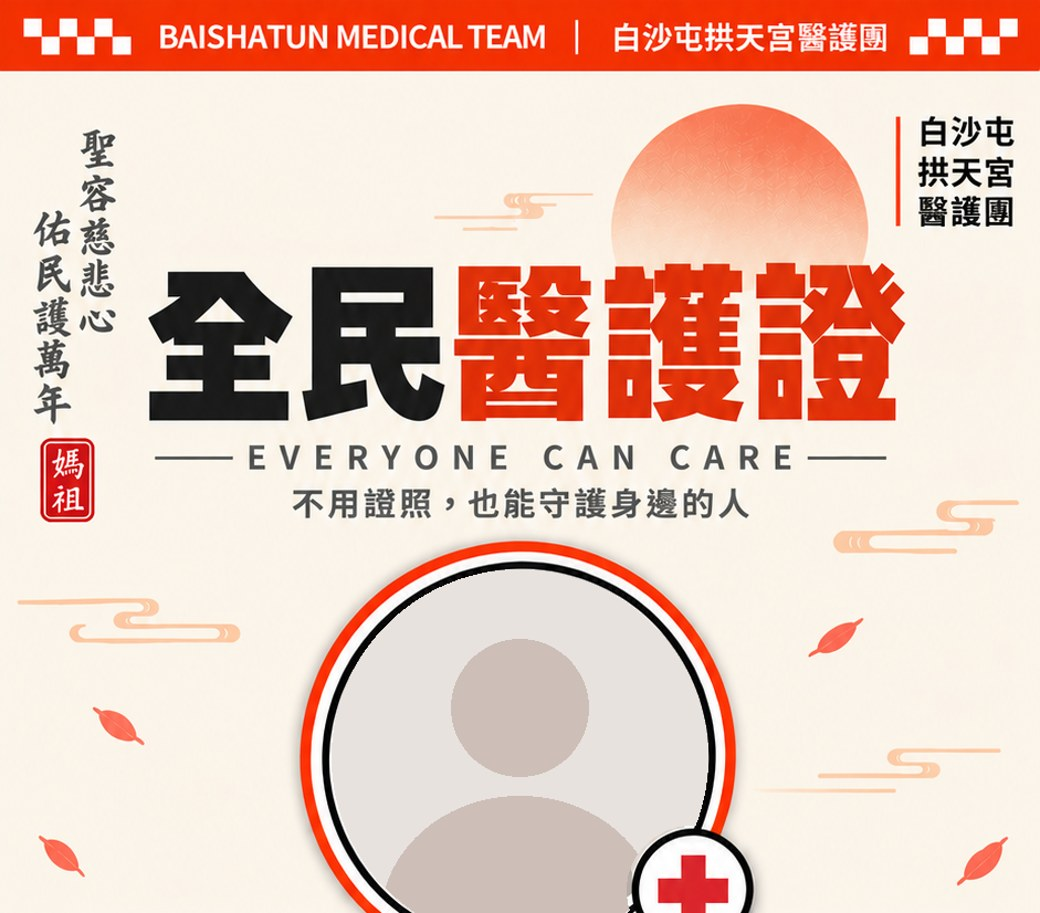
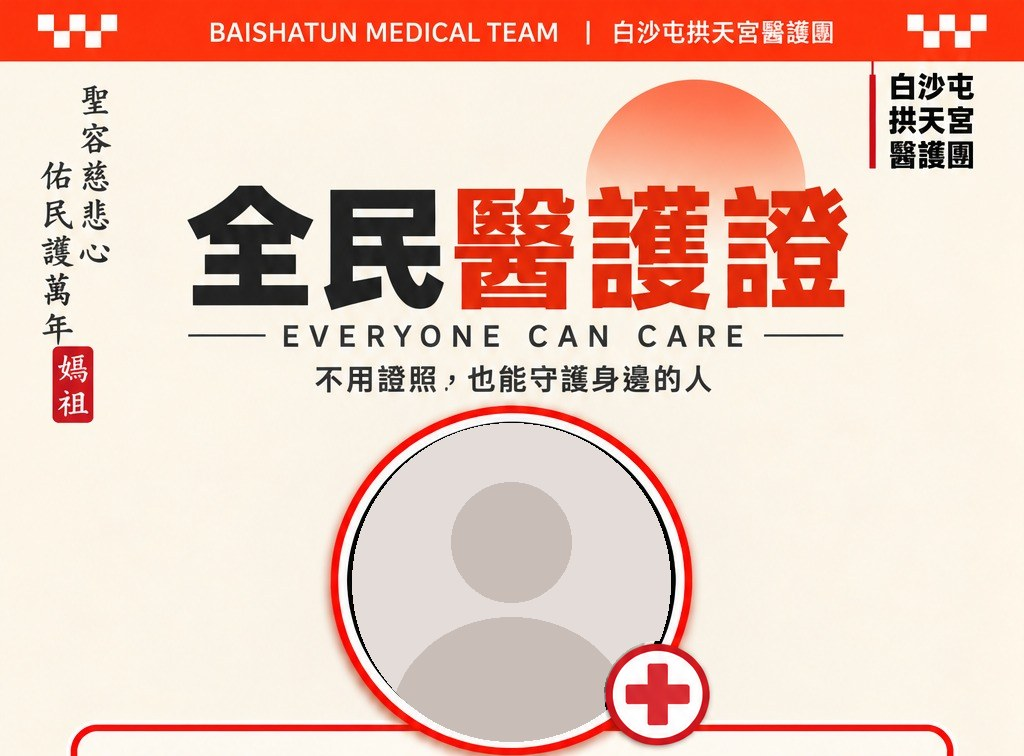
全民醫護證獨立頁 /guardian/：先填資料再產生、LINE 大頭貼預設、當天日期、守護流水號
Claude-Session: https://claude.ai/code/session_01UgnuMUR9BFixKJirFzAXJh

diff --git a/guardian/index.html b/guardian/index.html
@@ -1,0 +1,214 @@
+<!doctype html>
+<html lang="zh-Hant">
+<head>
+<meta charset="utf-8">
+<meta name="viewport" content="width=device-width,initial-scale=1,viewport-fit=cover">
+<title>全民醫護證｜白沙屯拱天宮醫護團</title>
+<meta property="og:title" content="全民醫護證｜白沙屯拱天宮醫護團">
+<meta property="og:description" content="不用證照，也能守護身邊的人。領一張屬於你的全民醫護證！">
+<meta property="og:image" content="https://tsushin-buishatun.pages.dev/richmenu/guardian-promo.jpg">
+<script charset="utf-8" src="https://static.line-scdn.net/liff/edge/2/sdk.js"></script>
+<style>
+  :root{--red:#D7262B;--ink:#1F1A18;--sub:#7B6F6A;--bg:#FBF5EC;--line:#EADFD5}
+  *{box-sizing:border-box}
+  html,body{margin:0;background:var(--bg);color:var(--ink);font-family:"PingFang TC","Noto Sans TC","Noto Sans CJK TC","Microsoft JhengHei",sans-serif;-webkit-text-size-adjust:100%}
+  .wrap{max-width:460px;margin:0 auto;padding:16px 16px 40px}
+  .hidden{display:none!important}
+  .hero{border-radius:16px;overflow:hidden;box-shadow:0 4px 18px rgba(0,0,0,.08);background:#fff}
+  .hero img{display:block;width:100%}
+  h2{font-size:19px;margin:20px 0 6px}
+  .hint{font-size:13px;color:var(--sub);line-height:1.6;margin:0 0 10px}
+  .lbl{font-size:14px;font-weight:800;margin:16px 0 8px}
+  input.txt{width:100%;font:inherit;font-size:18px;padding:12px 14px;border:2px solid var(--line);border-radius:12px;background:#fff;outline:none}
+  input.txt:focus{border-color:var(--red)}
+  .chips{display:flex;flex-wrap:wrap;gap:8px}
+  .chips button,.grid2 button{font:inherit;font-size:15px;font-weight:800;border:2px solid var(--line);background:#fff;color:#6b625e;border-radius:999px;padding:8px 14px;cursor:pointer}
+  .chips button.on{background:var(--red);border-color:var(--red);color:#fff}
+  .grid2{display:grid;grid-template-columns:1fr 1fr;gap:8px}
+  .grid2 button{border-radius:12px;padding:12px 6px}
+  .grid2 button.on{background:linear-gradient(#E0342F,#C9221F);border-color:#A51A18;color:#fff}
+  .btn{display:block;width:100%;font:inherit;font-size:17px;font-weight:900;border:0;border-radius:14px;padding:14px;cursor:pointer;text-align:center;margin-top:10px;text-decoration:none}
+  .btn.main{background:linear-gradient(90deg,#E0342F,#F0763A);color:#fff;box-shadow:0 6px 16px rgba(224,52,47,.3)}
+  .btn.line{background:#06C755;color:#fff}
+  .btn.ghost{background:#EFE8E2;color:#4a403c}
+  .row2{display:grid;grid-template-columns:1fr 1fr;gap:10px}
+  .row2 .btn{margin-top:0}
+  canvas{width:100%;display:block;border-radius:14px;box-shadow:0 6px 22px rgba(0,0,0,.16);touch-action:none;background:#FBF4EA}
+  .zoom{display:flex;align-items:center;gap:10px;font-size:13px;color:var(--sub);margin:12px 2px 2px}
+  .zoom input{flex:1}
+  .note{font-size:12px;color:var(--sub);text-align:center;line-height:1.7;margin-top:14px}
+  .spin{width:34px;height:34px;border:4px solid #f0d9d4;border-top-color:var(--red);border-radius:50%;animation:sp 1s linear infinite;margin:80px auto 14px}
+  @keyframes sp{to{transform:rotate(360deg)}}
+  #toast{position:fixed;left:50%;bottom:28px;transform:translateX(-50%);background:rgba(20,20,20,.88);color:#fff;padding:10px 16px;border-radius:12px;font-size:14px;opacity:0;transition:.25s;pointer-events:none;z-index:99;max-width:88vw;text-align:center}
+  #toast.show{opacity:1}
+  .ov{position:fixed;inset:0;z-index:90;background:rgba(0,0,0,.8);display:flex;flex-direction:column;align-items:center;justify-content:center;padding:16px;gap:12px}
+  .ov img{max-width:100%;max-height:74vh;border-radius:12px}
+  .ov .t{color:#fff;font-weight:800;font-size:15px;text-align:center}
+  .ov .row2{width:100%;max-width:360px}
+</style>
+</head>
+<body>
+<div class="wrap">
+  <div id="v-loading"><div class="spin"></div><p class="hint" style="text-align:center">讀取中…</p></div>
+
+  <!-- 第 1 步：填資料 -->
+  <div id="v-form" class="hidden">
+    <div class="hero"><img src="../richmenu/guardian-promo.jpg?v=2" alt="全民醫護證"></div>
+    <h2>領取你的全民醫護證</h2>
+    <p class="hint">不用證照，只要一顆願意幫忙的心。填好下面三項，就能拿到屬於你的守護證。</p>
+    <div class="lbl">① 姓名</div>
+    <input class="txt" id="f-name" maxlength="8" placeholder="你的名字" autocomplete="off">
+    <div class="lbl">② 身分</div>
+    <div class="chips" id="f-pos"></div>
+    <div class="lbl">③ 我會的守護技能 <span style="font-weight:500;color:var(--sub);font-size:12px">（可複選，不會也沒關係）</span></div>
+    <div class="grid2" id="f-skills"></div>
+    <button class="btn main" id="f-next" style="margin-top:22px">產生我的醫護證 →</button>
+  </div>
+
+  <!-- 第 2 步：醫護證 -->
+  <div id="v-card" class="hidden">
+    <canvas id="cv" width="1080" height="1620"></canvas>
+    <div class="zoom" id="zoomrow">🔍<input type="range" id="zoom" min="1" max="3" step="0.01" value="1">拖曳照片可移動</div>
+    <div class="row2" style="margin-top:12px">
+      <label class="btn ghost" style="margin:0">📷 換照片<input type="file" id="file" accept="image/*" style="display:none"></label>
+      <button class="btn ghost" id="edit">✏ 修改資料</button>
+    </div>
+    <button class="btn main" id="save">⬇ 存成圖片</button>
+    <button class="btn line" id="invite">➦ 邀請親友一起領</button>
+    <div class="note">🔒 照片只在你的手機上合成，不會上傳<br>白沙屯拱天宮醫護團 ・ 聖容慈悲心 佑民護萬年</div>
+  </div>
+</div>
+<div id="toast"></div>
+
+<script>
+(function () {
+  const LIFF_ID = '';   // ← 新建的「全民醫護證」LIFF ID（建好後填入）
+  const AUTH_URL = 'https://bst-auth.eurekateamstar.workers.dev';
+  const POS = ['全民守護員', '志工', '護理師', '醫師', 'EMTP', 'EMT2', 'EMT1'];
+  const SKILLS = ['CPR＋AED', '中暑處理', '止血包紮', '陪伴與求救'];
+  const FONT = '"PingFang TC","Noto Sans TC","Noto Sans CJK TC","Microsoft JhengHei",sans-serif';
+  const W = 1024, H = 1536;                       // 模板原始尺寸
+  const PH = { x: 511, y: 582, r: 159 };          // 大頭照圓框
+  const $ = id => document.getElementById(id);
+  const st = { name: '', pos: '全民守護員', skills: [true, true, false, true], no: 0, date: '', photo: null, zoom: 1, ox: 0, oy: 0, tpl: null, badge: null, profile: null };
+  const KEY = 'bst_guardian_v1';
+  try { Object.assign(st, JSON.parse(localStorage.getItem(KEY) || '{}')); } catch (e) {}
+  const remember = () => { try { localStorage.setItem(KEY, JSON.stringify({ name: st.name, pos: st.pos, skills: st.skills })); } catch (e) {} };
+  function toast(m, ms) { const t = $('toast'); t.textContent = m; t.classList.add('show'); clearTimeout(toast._t); toast._t = setTimeout(() => t.classList.remove('show'), ms || 2200); }
+  function view(id) { ['v-loading', 'v-form', 'v-card'].forEach(v => $(v).classList.toggle('hidden', v !== id)); window.scrollTo(0, 0); }
+  const load = (src, cors) => new Promise((res, rej) => { const i = new Image(); if (cors) i.crossOrigin = 'anonymous'; i.onload = () => res(i); i.onerror = rej; i.src = src; });
+  const today = () => { const d = new Date(); return `${d.getFullYear()}.${String(d.getMonth() + 1).padStart(2, '0')}.${String(d.getDate()).padStart(2, '0')}`; };
+  const hasLiff = () => !!(LIFF_ID && window.liff);
+
+  // ---------- 表單 ----------
+  function drawForm() {
+    $('f-name').value = st.name || '';
+    $('f-pos').innerHTML = POS.map(p => `<button type="button" data-p="${p}" class="${st.pos === p ? 'on' : ''}">${p}</button>`).join('');
+    $('f-skills').innerHTML = SKILLS.map((s, i) => `<button type="button" data-s="${i}" class="${st.skills[i] ? 'on' : ''}">${st.skills[i] ? '✓ ' : ''}${s}</button>`).join('');
+    document.querySelectorAll('[data-p]').forEach(b => b.onclick = () => { st.pos = b.dataset.p; st.name = $('f-name').value.trim(); drawForm(); });
+    document.querySelectorAll('[data-s]').forEach(b => b.onclick = () => { st.skills[+b.dataset.s] = !st.skills[+b.dataset.s]; st.name = $('f-name').value.trim(); drawForm(); });
+  }
+  $('f-next').onclick = () => {
+    st.name = $('f-name').value.trim();
+    if (!st.name) { $('f-name').focus(); return toast('請先填寫姓名'); }
+    remember(); view('v-card'); draw();
+  };
+  $('edit').onclick = () => { drawForm(); view('v-form'); };
+
+  // ---------- 畫醫護證 ----------
+  function rr(c, x, y, w, h, r) { c.beginPath(); c.moveTo(x + r, y); c.arcTo(x + w, y, x + w, y + h, r); c.arcTo(x + w, y + h, x, y + h, r); c.arcTo(x, y + h, x, y, r); c.arcTo(x, y, x + w, y, r); c.closePath(); }
+  function fit(c, text, weight, size, maxW, min) { let f = size; c.font = `${weight} ${f}px ${FONT}`; while (c.measureText(text).width > maxW && f > min) { f -= 1; c.font = `${weight} ${f}px ${FONT}`; } return f; }
+  function draw() {
+    const cv = $('cv'), c = cv.getContext('2d'), k = cv.width / W;
+    c.setTransform(k, 0, 0, k, 0, 0); c.fillStyle = '#FBF4EA'; c.fillRect(0, 0, W, H);
+    if (st.tpl) c.drawImage(st.tpl, 0, 0, W, H);
+    // 大頭照
+    c.save(); c.beginPath(); c.arc(PH.x, PH.y, PH.r, 0, Math.PI * 2); c.clip();
+    if (st.photo) { const p = st.photo, s = Math.max(2 * PH.r / p.naturalWidth, 2 * PH.r / p.naturalHeight) * st.zoom, w = p.naturalWidth * s, h = p.naturalHeight * s;
+      c.drawImage(p, PH.x - w / 2 + st.ox, PH.y - h / 2 + st.oy, w, h); }
+    else { c.fillStyle = '#E3DCD8'; c.fillRect(PH.x - PH.r, PH.y - PH.r, PH.r * 2, PH.r * 2); c.fillStyle = '#C9BDB8';
+      c.beginPath(); c.arc(PH.x, PH.y - 40, 60, 0, Math.PI * 2); c.fill(); c.beginPath(); c.ellipse(PH.x, PH.y + 140, 120, 105, 0, 0, Math.PI * 2); c.fill(); }
+    c.restore();
+    if (st.badge) c.drawImage(st.badge, 657 - 54, 694 - 54, 108, 108);
+    c.textBaseline = 'middle';
+    // 姓名
+    c.textAlign = 'left'; c.fillStyle = '#111'; fit(c, st.name || '你的名字', 900, 64, 450, 30); c.fillText(st.name || '你的名字', 134, 912);
+    // 身分
+    fit(c, st.pos, 900, 34, 168, 20); const tw = c.measureText(st.pos).width, pw = tw + 30;
+    rr(c, 802 - pw / 2, 885, pw, 54, 10); c.fillStyle = '#FFF'; c.fill(); c.lineWidth = 3.5; c.strokeStyle = '#D7262B'; c.stroke();
+    c.fillStyle = '#C81E25'; c.textAlign = 'center'; c.fillText(st.pos, 802, 913);
+    // 技能
+    SKILLS.forEach((t, i) => { const x = i % 2 ? 519 : 137, y = i < 2 ? 998 : 1054, on = st.skills[i];
+      rr(c, x, y, 370, 50, 6);
+      if (on) { const g = c.createLinearGradient(0, y, 0, y + 50); g.addColorStop(0, '#DA2A2E'); g.addColorStop(1, '#C21B22'); c.fillStyle = g; } else c.fillStyle = '#E6E4E2';
+      c.fill(); c.lineWidth = 2; c.strokeStyle = on ? '#A3171C' : '#C9C5C2'; c.stroke();
+      c.fillStyle = on ? '#fff' : '#9A9592'; c.font = `800 30px ${FONT}`; c.textAlign = 'center'; c.fillText((on ? '✓ ' : '') + t, x + 185, y + 26); });
+    // 日期（左側直排）
+    c.save(); c.translate(70, 585); c.rotate(Math.PI / 2);
+    c.font = `900 30px ${FONT}`; const dw = c.measureText(st.date).width + 40;
+    rr(c, -dw / 2, -26, dw, 52, 26); c.fillStyle = '#C81E25'; c.fill();
+    c.fillStyle = '#fff'; c.textAlign = 'center'; c.fillText(st.date, 0, 1); c.restore();
+    // 守護編號（右側直排）
+    c.save(); c.translate(958, 470); c.rotate(Math.PI / 2);
+    const no = st.no ? 'NO.' + String(st.no).padStart(6, '0') : 'NO.------';
+    c.font = `700 20px ${FONT}`; c.fillStyle = '#8A7C76'; c.textAlign = 'center'; c.fillText('GUARDIAN', 0, -24);
+    c.font = `900 34px ${FONT}`; c.fillStyle = '#C81E25'; c.fillText(no, 0, 10); c.restore();
+  }
+
+  // 換照片、拖曳、縮放
+  $('zoom').oninput = e => { st.zoom = +e.target.value; draw(); };
+  $('file').onchange = async e => { const f = e.target.files[0]; e.target.value = ''; if (!f) return;
+    try { st.photo = await load(URL.createObjectURL(f)); st.zoom = 1; st.ox = st.oy = 0; $('zoom').value = 1; draw(); } catch (err) { toast('讀不到這張照片'); } };
+  (function () {
+    const cv = $('cv'), pts = new Map(); let last = null, pinch = null;
+    const pos = ev => { const r = cv.getBoundingClientRect(), f = W / r.width; return [(ev.clientX - r.left) * f, (ev.clientY - r.top) * f]; };
+    const inPhoto = p => Math.hypot(p[0] - PH.x, p[1] - PH.y) < PH.r + 40;
+    cv.addEventListener('pointerdown', ev => { const p = pos(ev); if (!st.photo || (!pts.size && !inPhoto(p))) return; cv.setPointerCapture(ev.pointerId); pts.set(ev.pointerId, p); last = p; pinch = null; });
+    cv.addEventListener('pointermove', ev => { if (!pts.has(ev.pointerId)) return; ev.preventDefault(); pts.set(ev.pointerId, pos(ev));
+      if (pts.size >= 2) { const [a, b] = [...pts.values()], d = Math.hypot(a[0] - b[0], a[1] - b[1]);
+        if (pinch) { st.zoom = Math.min(3, Math.max(1, pinch.z * d / pinch.d)); $('zoom').value = st.zoom; } else pinch = { d, z: st.zoom }; }
+      else { const p = pos(ev); if (last) { st.ox += p[0] - last[0]; st.oy += p[1] - last[1]; } last = p; }
+      draw(); });
+    const up = ev => { pts.delete(ev.pointerId); last = null; if (pts.size < 2) pinch = null; };
+    cv.addEventListener('pointerup', up); cv.addEventListener('pointercancel', up);
+  })();
+
+  // 存圖
+  $('save').onclick = () => {
+    draw(); let url; try { url = $('cv').toDataURL('image/jpeg', 0.92); } catch (e) { return toast('產生圖片失敗，請換一張照片再試'); }
+    const ov = document.createElement('div'); ov.className = 'ov';
+    ov.innerHTML = `<div class="t">📱 長按圖片 →「儲存圖片」或直接分享</div><img src="${url}" alt="全民醫護證">
+      <div class="row2"><a class="btn" style="background:#fff;color:#111" download="全民醫護證.jpg" href="${url}">⬇ 下載</a><button class="btn ghost" id="ovx">關閉</button></div>`;
+    document.body.appendChild(ov); ov.querySelector('#ovx').onclick = () => ov.remove(); ov.onclick = e => { if (e.target === ov) ov.remove(); };
+  };
+  // 邀請親友（傳的是邀請卡，不含個人照片）
+  $('invite').onclick = async () => {
+    if (!hasLiff() || !liff.isApiAvailable('shareTargetPicker')) return toast('請在 LINE 裡打開這個頁面才能分享');
+    try { const r = await fetch(AUTH_URL + '/share-get?id=guardian'), j = await r.json(); if (!j.ok) throw new Error(j.error || '讀不到卡片');
+      const res = await liff.shareTargetPicker([j.card.flex], { isMultiple: true }); if (res) toast('✅ 已分享'); }
+    catch (e) { toast('分享失敗：' + (e.message || e), 3500); }
+  };
+
+  // ---------- 啟動 ----------
+  async function start() {
+    st.date = today();
+    const assets = Promise.all([load('gc-tpl.jpg?v=1'), load('gc-badge.png?v=1')]).then(([a, b]) => { st.tpl = a; st.badge = b; }).catch(() => toast('圖片載入失敗，請重新整理'));
+    if (hasLiff()) {
+      try { await Promise.race([liff.init({ liffId: LIFF_ID }), new Promise((_, r) => setTimeout(() => r(new Error('逾時')), 9000))]); } catch (e) {}
+      try {
+        if (!liff.isLoggedIn()) { liff.login({ redirectUri: location.href }); return; }
+        const pf = await liff.getProfile(); st.profile = pf;
+        if (!st.name) st.name = String(pf.displayName || '').slice(0, 8);
+        if (pf.pictureUrl) load(AUTH_URL + '/pic?u=' + encodeURIComponent(pf.pictureUrl), true).then(i => { if (!st.photo) { st.photo = i; draw(); } }).catch(() => {});
+        const at = liff.getAccessToken();
+        if (at) fetch(AUTH_URL + '/guardian-no', { method: 'POST', headers: { 'Content-Type': 'application/json' }, body: JSON.stringify({ accessToken: at }) })
+          .then(r => r.json()).then(j => { if (j.ok) { st.no = j.no; draw(); } }).catch(() => {});
+      } catch (e) {}
+    }
+    await assets; drawForm(); view('v-form');
+  }
+  start();
+})();
+</script>
+</body>
+</html>

diff --git a/security/worker.js b/security/worker.js
@@ -29,6 +29,13 @@ export default {
     if (req.method === 'OPTIONS') return new Response(null, { headers: cors });
     { const m = new URL(req.url).pathname.match(/^\/j\/([A-Za-z0-9_-]{6,40})\.jpg$/); if (m && req.method === 'GET') return journeyImg(m[1], env, req); }
     { const m = new URL(req.url).pathname.match(/^\/c\/([A-Za-z0-9_-]{6,40})\.jpg$/); if (m && req.method === 'GET') return journeyImg(m[1], env, req, 'share_img'); }
+    if (new URL(req.url).pathname === '/pic' && req.method === 'GET') {   // LINE 大頭貼代理（讓 canvas 可以存圖）
+      const u = new URL(req.url).searchParams.get('u') || '';
+      let h = ''; try { h = new URL(u).hostname; } catch (e) {}
+      if (!/^https:/.test(u) || !/(^|\.)line-scdn\.net$/.test(h)) return new Response('bad url', { status: 400 });
+      const r = await fetch(u, { cf: { cacheTtl: 3600 } }); if (!r.ok) return new Response('not found', { status: 404 });
+      return new Response(r.body, { headers: { 'Content-Type': r.headers.get('Content-Type') || 'image/jpeg', 'Access-Control-Allow-Origin': '*', 'Cache-Control': 'public, max-age=3600' } });
+    }
     if (new URL(req.url).pathname === '/share-get' && req.method === 'GET') {   // 分享卡片內容（公開，給 LIFF 分享頁用）
       const id = new URL(req.url).searchParams.get('id') || '';
       if (!/^[A-Za-z0-9_-]{6,40}$/.test(id)) return json({ error: 'bad id' }, 400);
@@ -71,6 +78,7 @@ export default {
     if (path === '/menu-setup') return menuSetupRoute(req, env, json);
     if (path === '/journey') return journeyRoute(req, env, json);
     if (path === '/sharecard') return shareCardRoute(req, env, json);
+    if (path === '/guardian-no') return guardianNoRoute(req, env, json);
 
     try {
       const { accessToken } = await req.json();
@@ -558,13 +566,14 @@ async function journeyRoute(req, env, json) {
     return json({ error: 'unknown action' }, 400);
   } catch (e) { return json({ error: String((e && e.message) || e) }, e && e.code || 500); }
 }
+const GUARDIAN_URL = 'https://tsushin-buishatun.pages.dev/guardian/';   // 全民醫護證（新 LIFF 建好後改成 liff.line.me 網址）
 const SHARE_LIFF = 'https://liff.line.me/2011820105-x1KU6xLW', OA_URL = 'https://line.me/R/ti/p/@393geitc';
 // 內建衛教小卡（圖在 /richmenu/card-*.jpg，由 scratchpad edu_card.py 產生）
 const EDU_H = {};   // 衛教小卡都是 1080×1080 正方形
 const EDU_CARDS = Object.fromEntries(EDU.map(e => ['edu-' + e.img, { id: 'edu-' + e.img, builtin: true, w: 1080, h: EDU_H[e.img] || 1080,
   alt: '衛教小卡：' + e.title, imgUrl: `${SITE}/richmenu/card-${e.img}.jpg?v=3` }]));
-EDU_CARDS.guardian = { id: 'guardian', builtin: true, w: 1040, h: 913, alt: '全民醫護證｜不用證照，也能守護身邊的人', imgUrl: `${SITE}/richmenu/guardian-promo.jpg?v=1`,
-  title: '領一張你的全民醫護證', text: '不用證照，也能守護身邊的人。放上照片、勾選你會的守護技能，做一張屬於你的醫護證！', btn: '🪪 領取我的全民醫護證', url: `${SHARE_LIFF}?card=1` };
+EDU_CARDS.guardian = { id: 'guardian', builtin: true, w: 1024, h: 756, alt: '全民醫護證｜不用證照，也能守護身邊的人', imgUrl: `${SITE}/richmenu/guardian-promo.jpg?v=2`,
+  title: '領一張你的全民醫護證', text: '不用證照，也能守護身邊的人。放上照片、勾選你會的守護技能，做一張屬於你的醫護證！', btn: '🪪 領取我的全民醫護證', url: GUARDIAN_URL };
 function shareFlex(c, origin) {
   const ratio = Math.min(3, Math.max(1 / 3, (c.w || 1) / (c.h || 1))), W = 1000, H = Math.round(W / ratio);
   const body = [], heroUrl = c.imgUrl || `${origin}/c/${c.id}.jpg`;
@@ -577,6 +586,31 @@ function shareFlex(c, origin) {
   return { type: 'flex', altText: c.alt || c.title || '白沙屯醫護團', contents: { type: 'bubble', size: 'mega',
     hero: { type: 'image', url: heroUrl, size: 'full', aspectMode: 'cover', aspectRatio: `${W}:${H}` },
     body: { type: 'box', layout: 'vertical', paddingAll: '13px', backgroundColor: '#1e3a5f', contents: body } } };
+}
+// ===== 全民醫護證：守護編號（同一個 LINE 帳號永遠拿到同一號，流水號）=====
+async function guardianNoRoute(req, env, json) {
+  try {
+    const { accessToken } = await req.json();
+    if (!accessToken) return json({ error: 'missing token' }, 400);
+    const [v, p] = await Promise.all([
+      fetch('https://api.line.me/oauth2/v2.1/verify?access_token=' + encodeURIComponent(accessToken)),
+      fetch('https://api.line.me/v2/profile', { headers: { Authorization: 'Bearer ' + accessToken } })]);
+    if (!v.ok || !p.ok) return json({ error: 'invalid token' }, 401);
+    const info = await v.json(); if (String(info.client_id) !== LINE_CHANNEL_ID) return json({ error: 'wrong channel' }, 401);
+    const { userId } = await p.json(); if (!/^U[0-9a-f]{32}$/.test(userId || '')) return json({ error: 'no user' }, 401);
+    const tok = await saToken(env), H = { Authorization: 'Bearer ' + tok, 'Content-Type': 'application/json' };
+    const have = await fsGet(tok, `guardian/${userId}`);
+    if (have) return json({ ok: true, no: +fobj(have.fields).no, at: +fobj(have.fields).at });
+    const DOC = `projects/${PROJECT_ID}/databases/(default)/documents`;
+    const c = await fetch(`https://firestore.googleapis.com/v1/${DOC}:commit`, { method: 'POST', headers: H, body: JSON.stringify({ writes: [
+      { transform: { document: `${DOC}/meta/guardian`, fieldTransforms: [{ fieldPath: 'count', increment: { integerValue: '1' } }] } }] }) });
+    const cj = await c.json(); const no = +(((cj.writeResults || [])[0] || {}).transformResults || [{}])[0].integerValue;
+    if (!no) return json({ error: 'counter failed' }, 500);
+    const at = Date.now();
+    const w = await fetch(`${FS}/guardian/${userId}?currentDocument.exists=false`, { method: 'PATCH', headers: H, body: JSON.stringify({ fields: { no: tv(no), at: tv(at) } }) });
+    if (!w.ok) { const again = await fsGet(tok, `guardian/${userId}`); if (again) return json({ ok: true, no: +fobj(again.fields).no, at: +fobj(again.fields).at }); }
+    return json({ ok: true, no, at });
+  } catch (e) { return json({ error: String((e && e.message) || e) }, 500); }
 }
 // ===== 分享卡片：管理員上傳圖文，團員用 LIFF shareTargetPicker 轉傳給親友／群組 =====
 async function shareCardRoute(req, env, json) {

diff --git a/member/index.html b/member/index.html
@@ -614,6 +614,7 @@
   const pendingShare = (() => { try { const q = new URLSearchParams(location.search); let v = q.get('share');
     if (!v && q.get('liff.state')) v = new URLSearchParams(q.get('liff.state').replace(/^[^?]*\?/, '')).get('share');
     return /^[A-Za-z0-9_-]{6,40}$/.test(v || '') ? v : ''; } catch (e) { return ''; } })();
+  const GUARDIAN_URL = 'https://tsushin-buishatun.pages.dev/guardian/';   // 全民醫護證獨立頁（新 LIFF 建好後改成 liff.line.me 網址）
   const pendingCard = (() => { try { const q = new URLSearchParams(location.search); return q.get('card') === '1' || /card=1/.test(q.get('liff.state') || ''); } catch (e) { return false; } })();   // 會員中心專用 LIFF（Endpoint: /STOREHOUSE/member/）
   const CERTS = ['EMT-1', 'EMT-2', 'EMT-P', '護理師', '醫師', '無證照'];
   const ROSTER = 'member_roster';            // 團員名冊（舊資料匯入）；文件 ID = SHA-256(身分證|生日)
@@ -3610,11 +3611,7 @@
   $('gc-invite').onclick = async () => {
     try { const r = await fetch(AUTH_URL + '/share-get?id=guardian'), j = await r.json(); if (!j.ok) throw new Error(j.error || 'fail'); await doShare(j.card); }
     catch (e) { dialog({ title: '沒辦法分享', msg: String(e.message || e), okText: '知道了' }); } };
-  $('btn-gcard').onclick = () => {
-    const cert = String((myRoster && (myRoster.cert || myRoster.certText)) || ''), opt = ['護理師', '醫師', 'EMTP', 'EMT2', 'EMT1'].find(x => cert.toUpperCase().includes(x));
-    if (opt && $('gc-pos').value === '全民守護員') $('gc-pos').value = opt;
-    openCardMaker((myRoster && myRoster.name) || (user && user.name) || '');
-  };
+  $('btn-gcard').onclick = () => { try { if (liff.isInClient() && GUARDIAN_URL.includes('liff.line.me')) return liff.openWindow({ url: GUARDIAN_URL }); } catch (e) {} location.href = GUARDIAN_URL; };
 
   // 依身分證＋姓名，把已存在的會員自動配對到名冊
   $('btn-autopair').onclick = async () => {
@@ -3778,7 +3775,7 @@
     try {
       await Promise.race([liff.init({ liffId: LIFF_ID }), new Promise((_, r) => setTimeout(() => r(new Error('逾時')), 9000))]);
     } catch (e) { return fail('無法啟動 LINE 登入，請從 LINE 開啟本頁，或稍後再試。'); }
-    if (pendingCard) return openCardMaker(null, true);
+    if (pendingCard) { location.replace(GUARDIAN_URL); return; }
     if (!liff.isLoggedIn()) {
       $('btn-line-login').onclick = () => liff.login({ redirectUri: pendingShare ? location.href : location.origin + location.pathname });
       return show('v-login');
